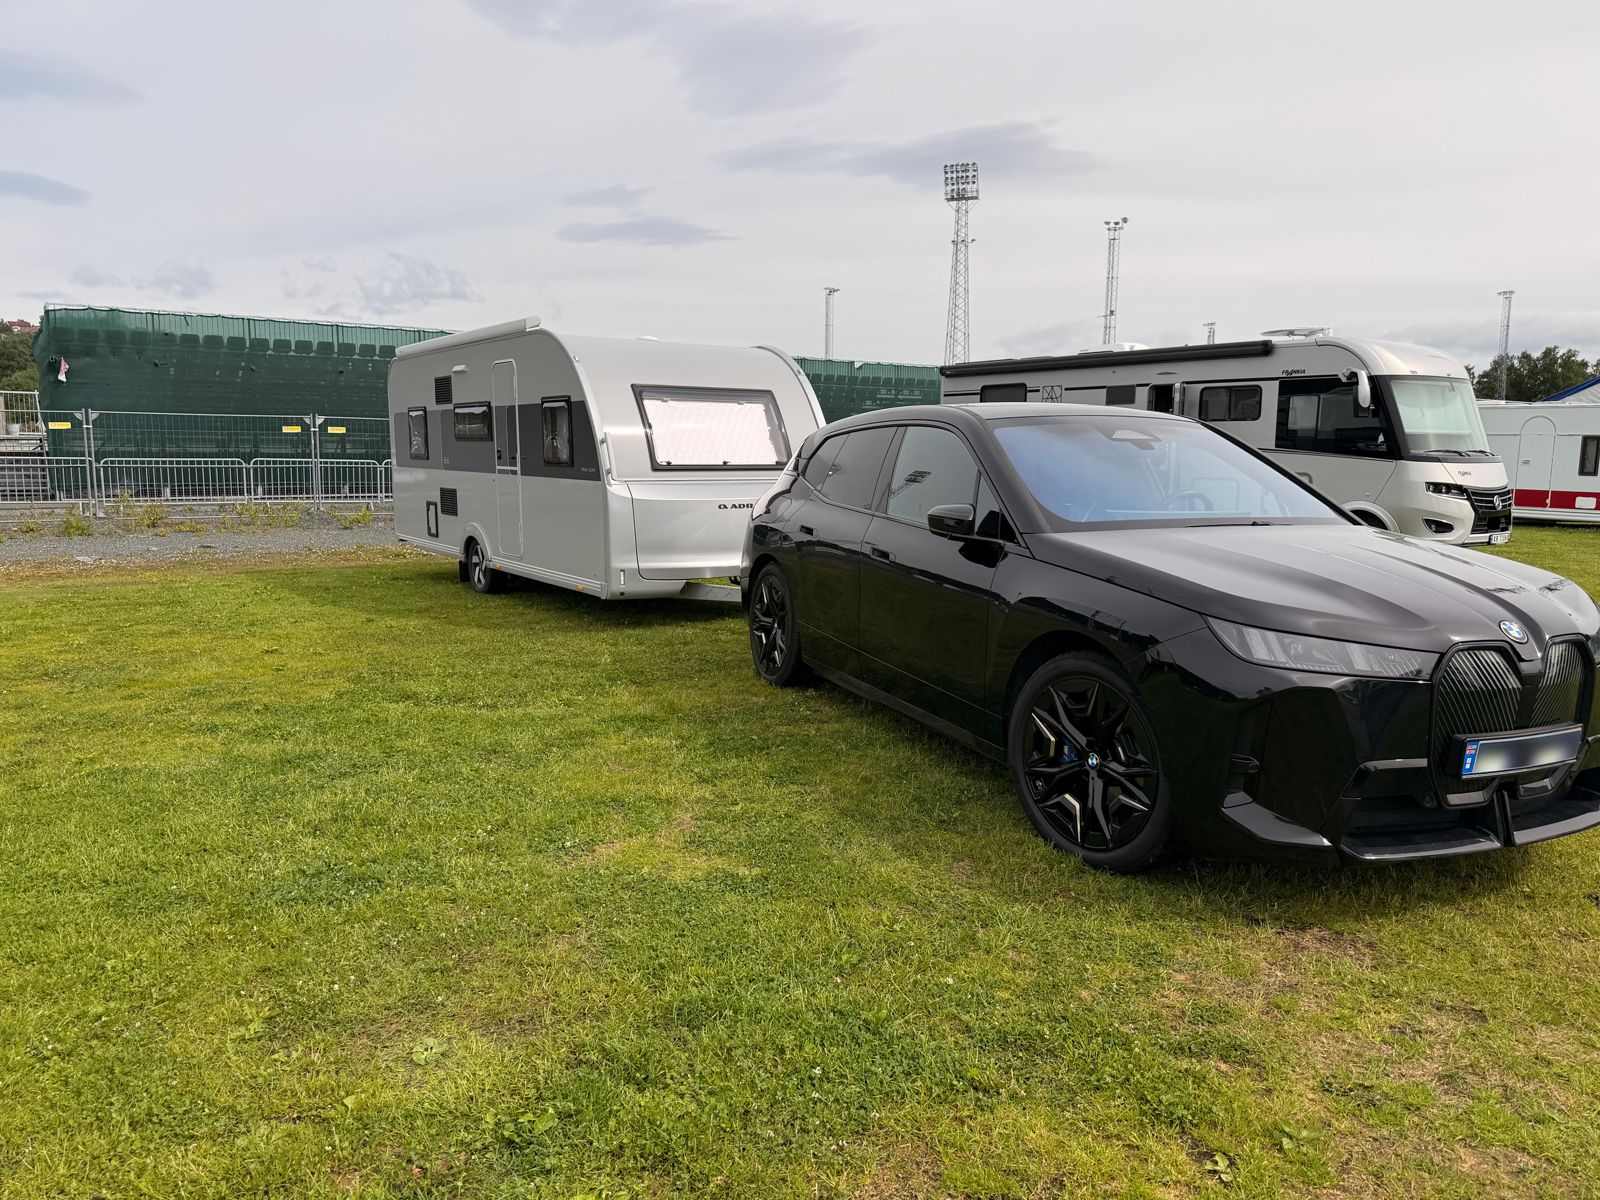
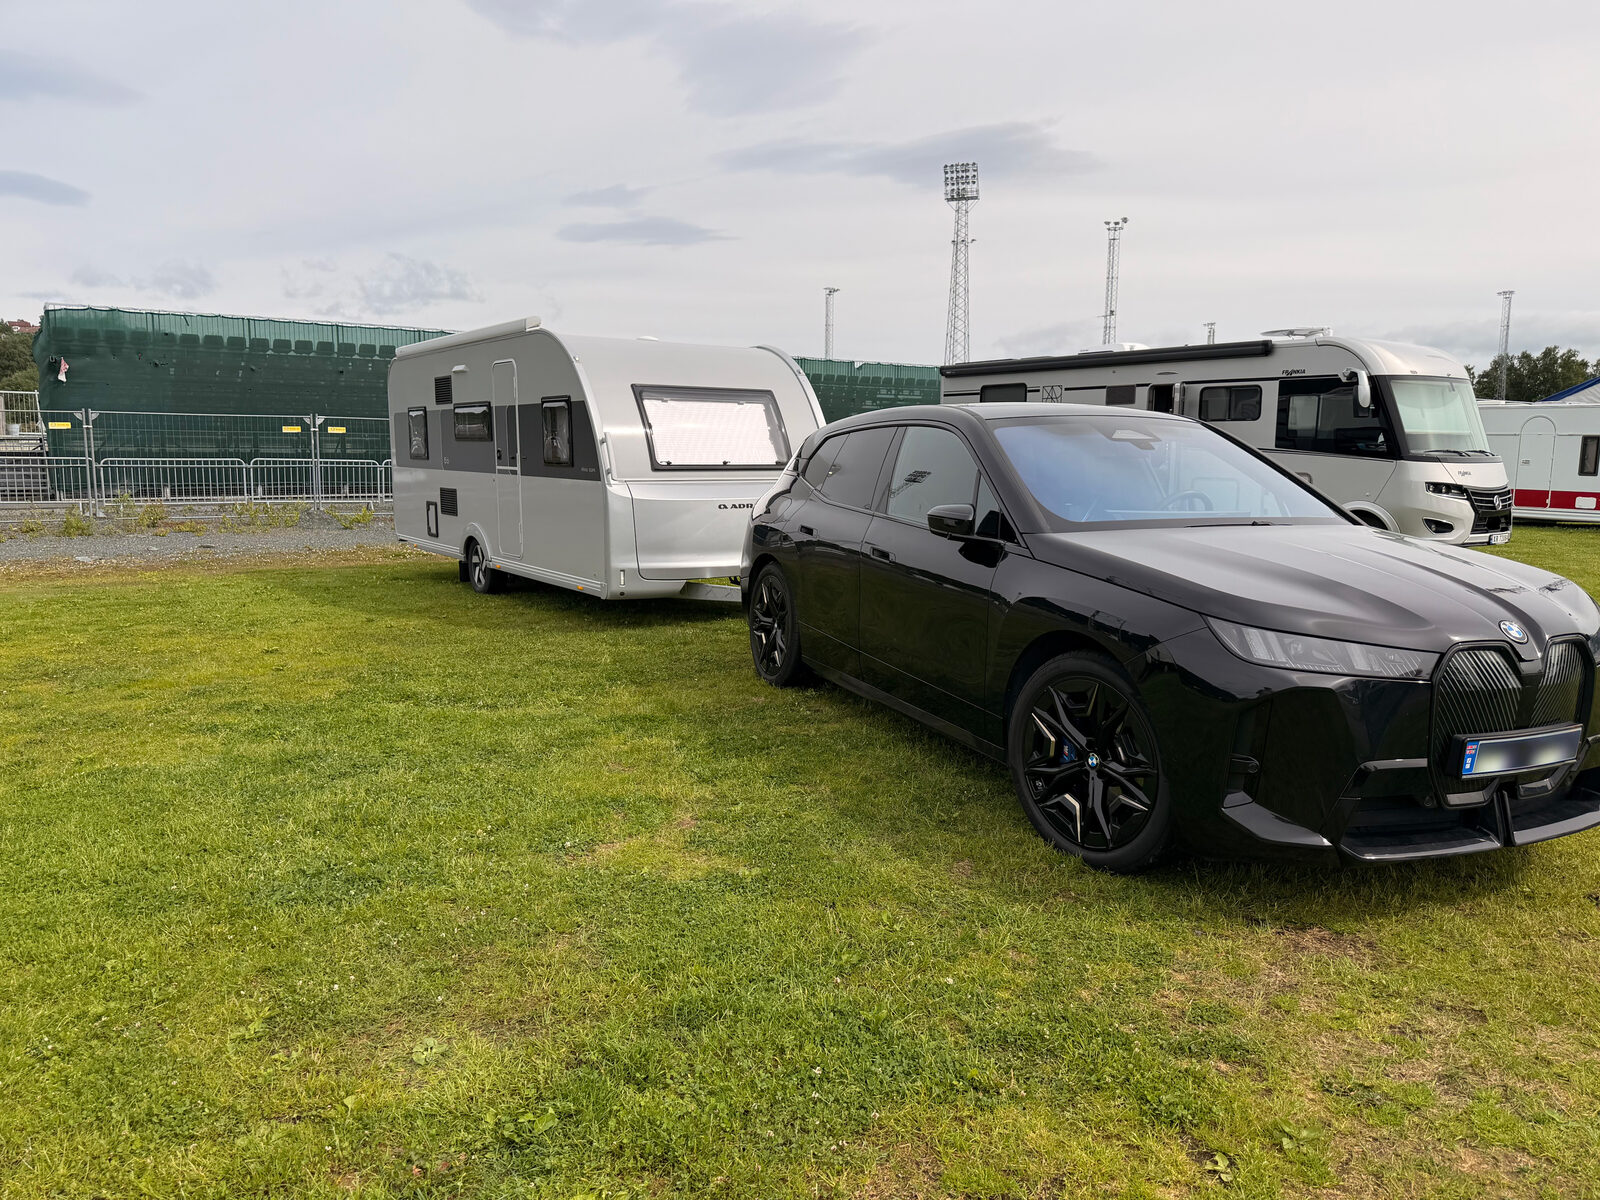
Nye og forbedrede bilder (#1)
Claude-Session: https://claude.ai/code/session_01Ukh84uvYFnAjQyC3MAPfz7

Changed region(s): [[0.9062, 0.6167, 0.9375, 0.6475], [0.625, 0.9867, 0.6562, 1.0]]

diff --git a/build.py b/build.py
@@ -18,6 +18,7 @@ IMAGES = {
     "adria-eksterior-2.jpg": WIX + "fcca76_637696227d964964a059dca22c9a4ce3~mv2.jpg",
     "adria-eksterior-3.jpg": WIX + "fcca76_e2e605eae9bf41de806890cb89f20763~mv2.jpg",
     "adria-eksterior-4.jpg": WIX + "fcca76_0f980ecfc2794ceaa837dad039db092b~mv2.jpg",
+    # adria-eksterior-5.jpg: lokalt bilde (ikke på Wix) – ligger i images/
     "adria-interior-1.jpg": WIX + "fcca76_822f3fe4449e48af8679467504222baa~mv2.jpg",
     "adria-interior-2.jpg": WIX + "fcca76_4f264f7bc7f8478bae3b959468ee1897~mv2.jpg",
     "adria-interior-3.jpg": WIX + "fcca76_46db76e4f102430eab62807a63f9f028~mv2.jpg",
@@ -358,6 +359,7 @@ def p_vogn(c):
     ('adria-interior-7.jpg', 'Dusjrom i Adria Altea 552 PK campingvogn', 'Eget dusjkabinett')])}
 {strip(c, 'Utenfor', [
     ('adria-eksterior-2.jpg', 'Adria Altea 552 PK campingvogn sett fra siden med moderne eksteriør', 'Enkel utsveivbar markise', '4/3'),
+    ('adria-eksterior-5.jpg', 'Adria Altea 552 PK campingvogn med utrullet markise, sidematte og stativ', 'Markise og uteplass', '4/3'),
     ('adria-eksterior-3.jpg', 'Adria Altea 552 PK campingvogn sett forfra', 'Moderne design', '4/3')])}
 {section(f'''<div class="two">
     <div class="panel"><h3>Nøkkeldata</h3><dl class="spec">
